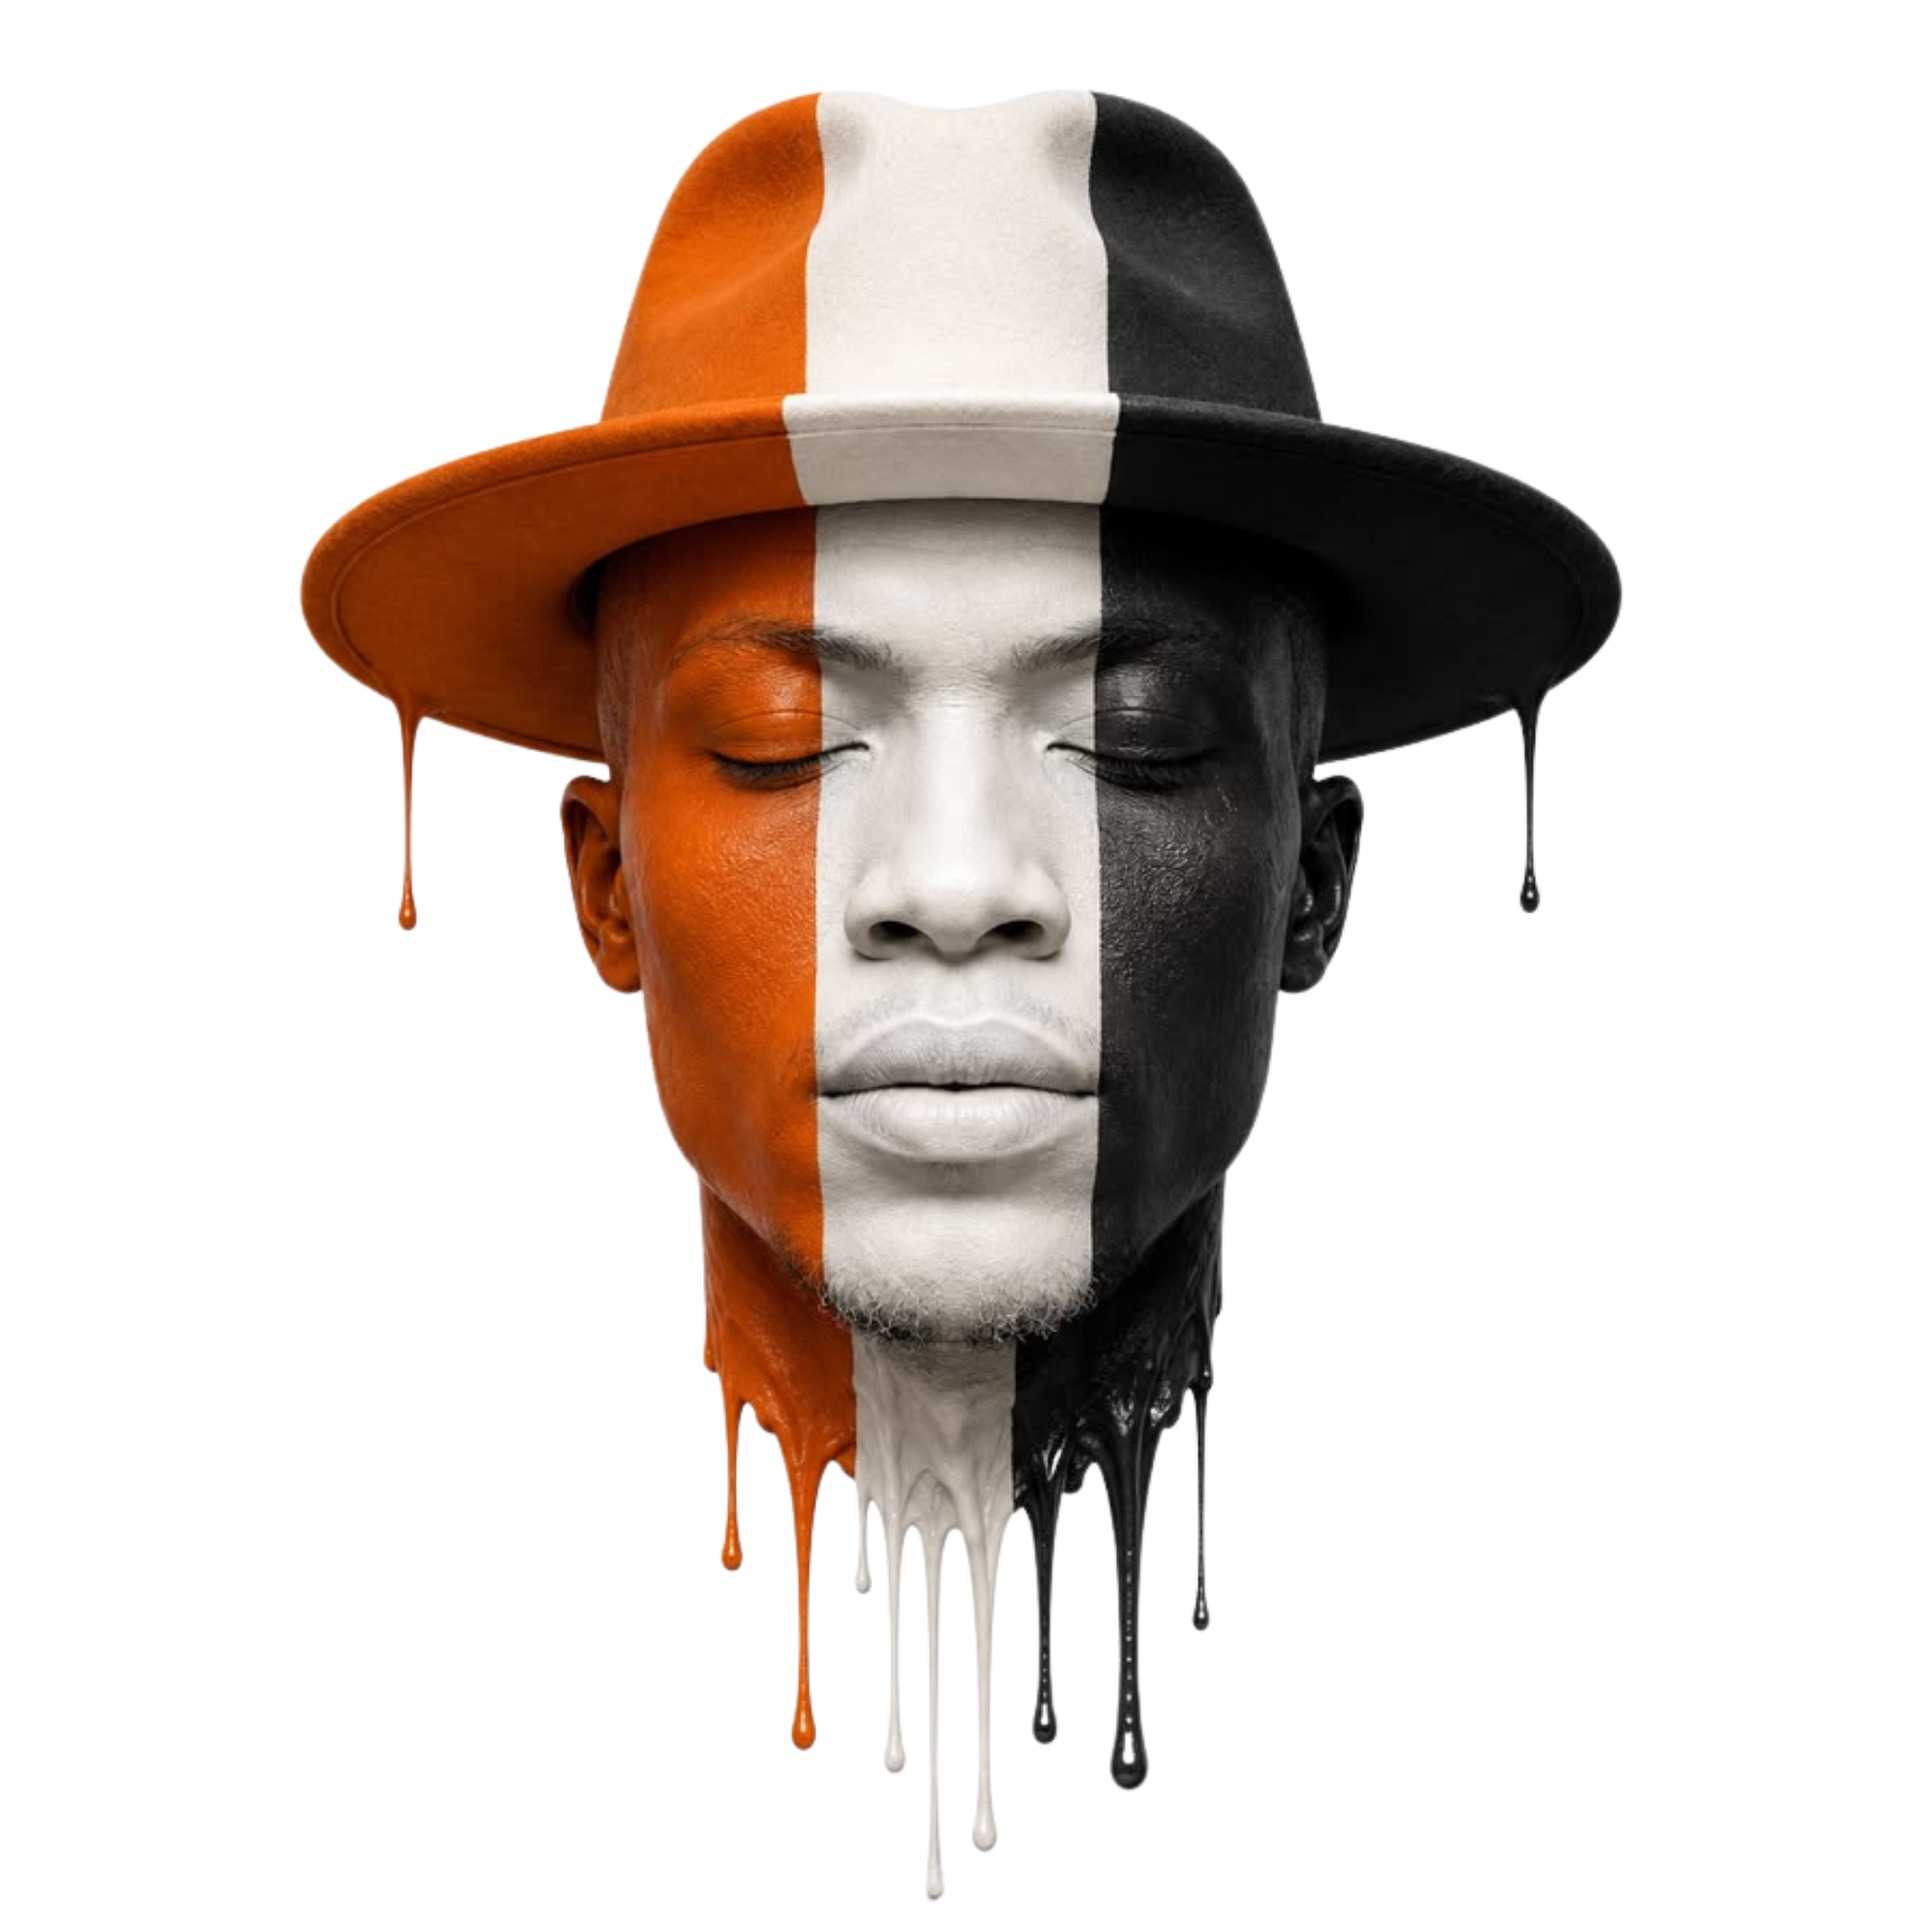
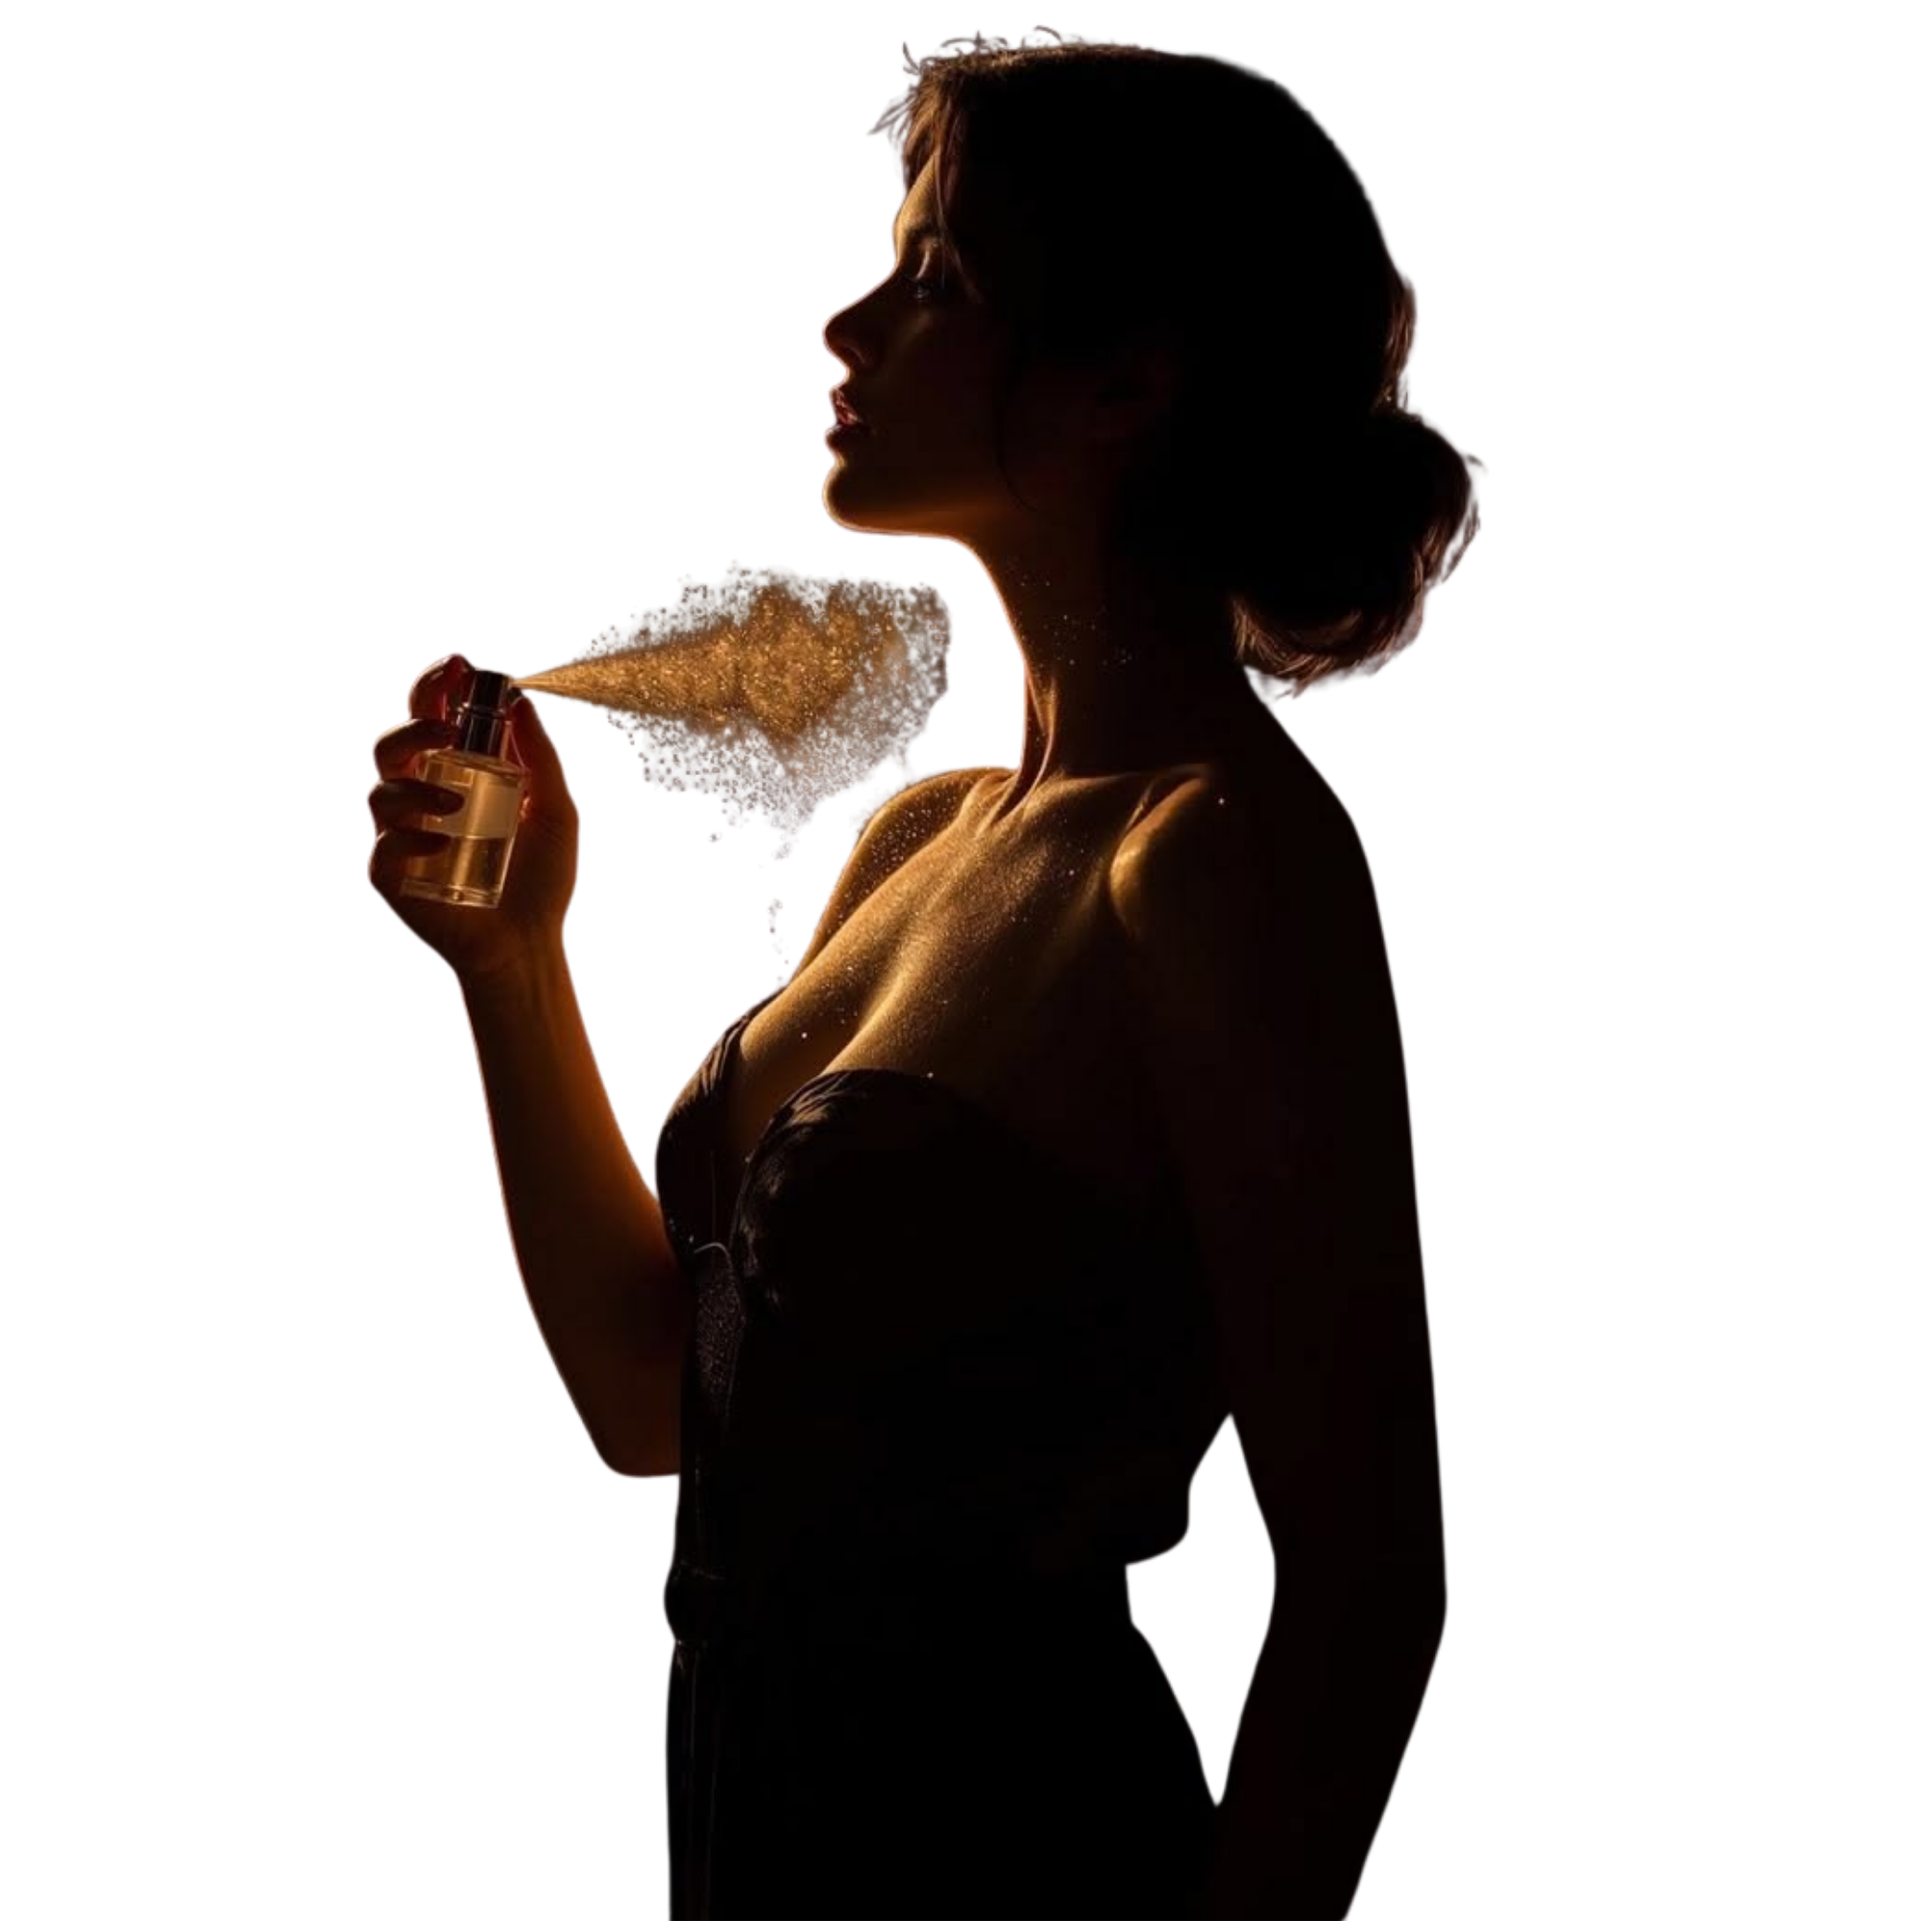
Updated Pricing

diff --git a/css/style.css b/css/style.css
@@ -161,7 +161,6 @@ body[data-active="cart"] .hero {
   margin-top: 28px;
 }
 .hero-float {
-  z-index: 1;
   position: absolute;
   right: 0;
   bottom: 0;
@@ -186,7 +185,7 @@ body[data-active="cart"] .hero {
 }
 .hero-inner {
   position: relative;
-  z-index: 2;
+  /* z-index: 2; */
 }
 .hero:has(.hero-float) .hero-inner {
   padding-inline: clamp(0px, 6vw, 56px);
@@ -609,3 +608,4 @@ main.container.page > :first-child { margin-top: 0; }
   .cart-line { gap: 10px; }
   .contact-links a { padding: 12px 12px; }
 }
+

diff --git a/products.html b/products.html
@@ -15,7 +15,7 @@
     <div id="site-header"></div>
     <div id="site-hero"></div>
 
-    <main class="container page">
+    <main class="container page products-container">
 
       <div style="max-width:320px; margin:0 auto 32px;">
         <label for="family-filter">Scent family</label>

diff --git a/build.py b/build.py
@@ -49,8 +49,8 @@ PRODUCTS = [
         "key": "apple-blaze",
         "name": "Apple Blaze",
         "family": "Unisex",
-        "price": 180.00,
-        "size": "50ml",
+        "price": 40.00,
+        "size": "10ml",
         "image": "img/apple blaze.jpeg",
         "tagline": "A fiery caramelised apple accord",
         "notes": "Baked apple, warm amber, caramel",
@@ -62,8 +62,8 @@ PRODUCTS = [
         "key": "woody",
         "name": "Woody",
         "family": "Male",
-        "price": 180.00,
-        "size": "50ml",
+        "price": 40.00,
+        "size": "10ml",
         "image": "img/woody2.png",
         "tagline": "Bold, masculine, grounded",
         "notes": "Cedarwood, sandalwood, smoky vetiver",
@@ -72,10 +72,10 @@ PRODUCTS = [
         "badge": "New",
     },
     {
-        "key": "noir-velvet",
-        "name": "Noir Velvet",
-        "family": "Female",
-        "price": 180.00,
+        "key": "apple-blaze",
+        "name": "Apple Blaze",
+        "family": "Unisex",
+        "price": 50.00,
         "size": "50ml",
         "image": "img/IMG-20260429-WA0066.jpg",
         "tagline": "Mysterious and sensual",
@@ -88,8 +88,8 @@ PRODUCTS = [
         "key": "sweetapple-rose",
         "name": "Sweet Apple Rose",
         "family": "Unisex",
-        "price": 180.00,
-        "size": "50ml",
+        "price": 40.00,
+        "size": "10ml",
         "image": "img/sweetapple.jpeg",
         "tagline": "Rosy apple, fresh and fun",
         "notes": "Ripe apple, rose petals, sugar",
@@ -98,11 +98,11 @@ PRODUCTS = [
         "badge": "Gift Idea",
     },
     {
-        "key": "signature-gold",
-        "name": "Signature Gold",
+        "key": "woody",
+        "name": "woody",
         "family": "Unisex",
-        "price": 180.00,
-        "size": "50ml",
+        "price": 50.00,
+        "size": "15ml",
         "image": "img/WhatsApp Image 2026-05-11 at 14.58.30.jpeg",
         "tagline": "The house signature — timeless luxury",
         "notes": "Golden amber, white florals, oud",
